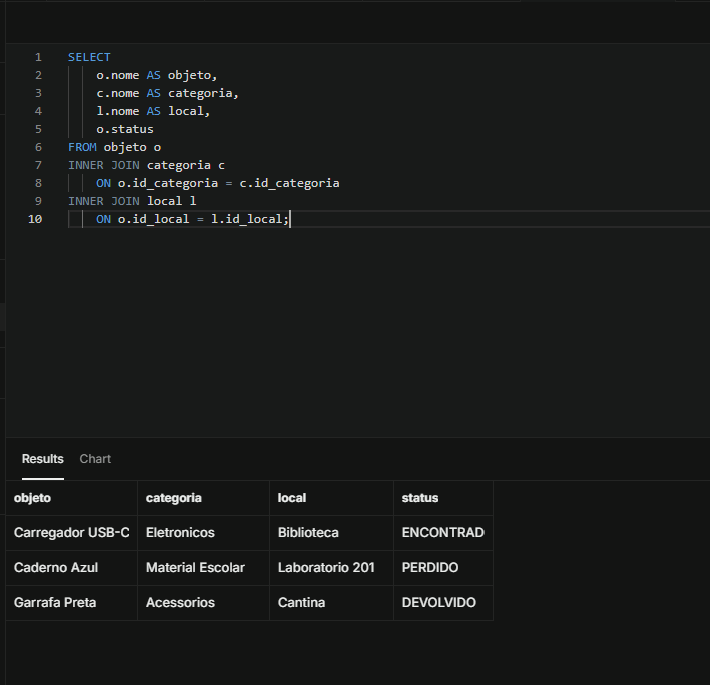
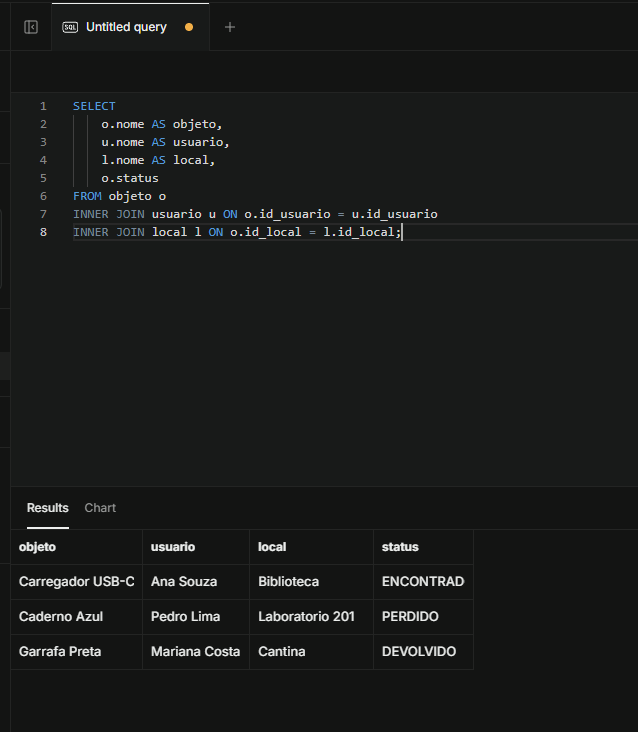
Atualiza documentacao e scripts conforme MER corrigido

diff --git a/docs/documentacao-tecnica.md b/docs/documentacao-tecnica.md
@@ -1,10 +1,9 @@
 # Projeto Integrador de Banco de Dados I
+
 ## APD1 — Modelagem Conceitual
 
-**Projeto:** Sistema Web de Achados e Perdidos para Ambiente Acadêmico
-
-**Curso:** Bacharelado em Engenharia da Computação
-
+**Projeto:** Sistema Web de Achados e Perdidos para Ambiente Acadêmico  
+**Curso:** Bacharelado em Engenharia da Computação  
 **Disciplina:** Banco de Dados I
 
 **Integrantes:**
@@ -13,239 +12,161 @@
 
 ### 1. Contextualização
 
-Em instituições de ensino, é comum que alunos, professores e funcionários percam ou encontrem objetos pessoais em salas de aula, laboratórios, bibliotecas e demais espaços.
+Em instituições de ensino, alunos, professores e funcionários podem perder ou encontrar objetos em salas de aula, laboratórios, bibliotecas e demais espaços. A divulgação informal dificulta localizar os responsáveis e acompanhar a devolução dos itens.
 
-A divulgação desses objetos geralmente ocorre de maneira informal, dificultando sua identificação e devolução.
-
-O Sistema Web de Achados e Perdidos tem como proposta centralizar essas informações, proporcionando maior organização e facilidade na consulta dos registros.
+O Sistema Web de Achados e Perdidos propõe centralizar os registros de objetos, usuários responsáveis pelos registros e locais de ocorrência.
 
 ### 2. Objetivo
 
-Desenvolver uma base de dados relacional para gerenciar objetos perdidos e encontrados no ambiente acadêmico.
-
-O sistema permitirá registrar informações sobre os objetos, seus responsáveis, categorias e locais de ocorrência.
-
-Posteriormente, a base de dados será integrada a uma aplicação web com funcionalidades CRUD e consultas.
+Estruturar uma base de dados relacional para organizar objetos perdidos e encontrados no ambiente acadêmico e, posteriormente, integrá-la a uma aplicação web com operações CRUD e consultas.
 
 ### 3. Requisitos funcionais
 
-- RF01 — Cadastrar usuários.
-- RF02 — Cadastrar categorias de objetos.
-- RF03 — Cadastrar locais da instituição.
-- RF04 — Cadastrar objetos perdidos ou encontrados.
-- RF05 — Consultar objetos cadastrados.
-- RF06 — Editar informações dos objetos.
-- RF07 — Excluir registros de objetos.
-- RF08 — Pesquisar objetos por nome, categoria, local e status.
-- RF09 — Atualizar o status dos objetos para perdido, encontrado ou devolvido.
+- **RF01:** Cadastrar usuários.
+- **RF02:** Cadastrar locais da instituição.
+- **RF03:** Cadastrar objetos perdidos ou encontrados, vinculando-os a um usuário e a um local.
+- **RF04:** Consultar os objetos cadastrados.
+- **RF05:** Editar os dados dos objetos.
+- **RF06:** Excluir registros de objetos.
+- **RF07:** Pesquisar objetos por nome, local ou status.
+- **RF08:** Alterar o status dos objetos entre PERDIDO, ENCONTRADO e DEVOLVIDO.
 
 ### 4. Regras de negócio
 
-- RN01 — Cada usuário possui um identificador único.
-- RN02 — Um usuário pode registrar vários objetos.
-- RN03 — Cada objeto deve estar associado a exatamente um usuário.
-- RN04 — Cada objeto pertence a uma única categoria.
-- RN05 — Uma categoria pode classificar vários objetos.
-- RN06 — Cada objeto deve estar associado a um local.
-- RN07 — Um local pode estar associado a vários objetos.
-- RN08 — Cada objeto possui um status que indica sua situação atual.
-- RN09 — O e-mail e a matrícula dos usuários, quando informada, devem ser únicos.
+- **RN01:** Cada usuário, local e objeto possui um identificador único.
+- **RN02:** Cada objeto possui um usuário responsável pelo registro.
+- **RN03:** Um usuário pode registrar vários objetos.
+- **RN04:** Cada objeto está associado a um local da instituição.
+- **RN05:** Um local pode estar associado a vários objetos.
+- **RN06:** Cada objeto possui um status: PERDIDO, ENCONTRADO ou DEVOLVIDO.
+- **RN07:** O e-mail do usuário deve ser único; a matrícula, quando informada, também deve ser única.
 
 ### 5. Modelo Entidade-Relacionamento (MER)
 
-O modelo conceitual foi desenvolvido utilizando o software brModelo.
+O modelo conceitual foi desenvolvido no brModelo e, após a revisão orientada pelo professor, contém três entidades:
 
-Foram definidas quatro entidades principais:
+- **USUARIO:** `id_usuario` (identificador), `nome`, `email`, `matricula`, `telefone`.
+- **LOCAL:** `id_local` (identificador), `nome`, `bloco`, `descricao`.
+- **OBJETO:** `id_objeto` (identificador), `nome`, `descricao`, `data_ocorrencia`, `status`.
 
-**USUARIO:** armazena informações dos responsáveis pelos registros.
-
-Atributos: id_usuario (identificador), nome, email, matricula e telefone.
-
-**OBJETO:** armazena as informações dos objetos perdidos ou encontrados.
-
-Atributos: id_objeto (identificador), nome, descricao, data_ocorrencia e status.
-
-**CATEGORIA:** representa a classificação dos objetos.
-
-Atributos: id_categoria (identificador), nome e descricao.
-
-**LOCAL:** representa os espaços físicos da instituição.
-
-Atributos: id_local (identificador), nome, bloco e descricao.
+![MER conceitual corrigido](APD1/MER_Achados_e_Perdidos.png)
 
 ### 6. Relacionamentos e cardinalidades
 
-**USUARIO — REGISTRA — OBJETO**
+- **USUARIO — REGISTRA — OBJETO:** o sistema associa o registro de cada objeto a um usuário.
+- **LOCAL — ACHADO — OBJETO:** o sistema associa cada objeto ao local da ocorrência.
 
-Um usuário pode registrar zero ou vários objetos. Cada objeto deve possuir exatamente um usuário responsável.
-
-Cardinalidade: 1:N.
-
-**CATEGORIA — CLASSIFICA — OBJETO**
-
-Uma categoria pode classificar zero ou vários objetos. Cada objeto deve pertencer a exatamente uma categoria.
-
-Cardinalidade: 1:N.
-
-**LOCAL — OCORRE — OBJETO**
-
-Um local pode estar associado a zero ou vários registros de objetos. Cada objeto deve estar associado a exatamente um local.
-
-Cardinalidade: 1:N.
+As cardinalidades e sua representação gráfica devem ser conferidas no arquivo editável do MER aprovado em sala. Na implementação relacional adotada, cada objeto referencia um usuário e um local, e um usuário ou local pode estar associado a vários objetos.
 
 ### 7. Justificativa da modelagem
 
-A entidade OBJETO foi definida como elemento central do sistema, pois representa as ocorrências que serão registradas.
+A entidade OBJETO representa os registros centrais da solução. USUARIO e LOCAL foram modeladas separadamente para evitar a repetição de informações de responsáveis e espaços físicos em cada objeto. A entidade CATEGORIA e seu relacionamento foram retirados conforme a revisão do modelo solicitada pelo professor.
 
-As entidades USUARIO, CATEGORIA e LOCAL foram separadas para organizar as informações e evitar a repetição desnecessária de dados.
+### 8. Tecnologias
 
-Essa estrutura permite que um mesmo usuário registre diferentes objetos, que vários objetos compartilhem uma categoria e que um mesmo local esteja associado a diversas ocorrências.
+- **brModelo:** modelagem conceitual e lógica.
+- **PostgreSQL / Supabase:** implementação e consultas ao banco de dados.
+- **Visual Studio Code:** edição dos arquivos do projeto.
+- **Git e GitHub:** versionamento dos artefatos.
+- **HTML, CSS e JavaScript:** tecnologias previstas para o MVP web.
 
-A utilização de identificadores únicos facilita a identificação dos registros e prepara a base para o desenvolvimento do modelo lógico e a aplicação das regras de normalização nas próximas etapas.
-
-### 8. Tecnologias previstas
-
-- brModelo: elaboração dos modelos conceitual e lógico.
-- PostgreSQL/Supabase: implementação futura do banco de dados relacional.
-- HTML, CSS e JavaScript: desenvolvimento previsto da interface web.
-- Git e GitHub: versionamento dos arquivos e documentação.
-
-
+---
 
 ## APD2 — Modelo Lógico e Normalização
 
 ### 1. Modelo lógico relacional
 
-O modelo lógico foi elaborado utilizando o software brModelo, a partir do Modelo Entidade-Relacionamento desenvolvido na APD1.
+O modelo lógico foi elaborado a partir do MER corrigido. Ele contém três tabelas relacionadas:
 
-O banco de dados é composto por quatro tabelas: USUARIO, CATEGORIA, LOCAL e OBJETO.
+- **USUARIO**(`id_usuario` PK, `nome`, `email`, `matricula`, `telefone`)
+- **LOCAL**(`id_local` PK, `nome`, `bloco`, `descricao`)
+- **OBJETO**(`id_objeto` PK, `nome`, `descricao`, `data_ocorrencia`, `status`, `id_usuario` FK, `id_local` FK)
 
-A tabela OBJETO representa a entidade central do sistema e contém três chaves estrangeiras responsáveis por estabelecer os relacionamentos com as demais tabelas.
+As chaves estrangeiras de OBJETO referenciam `USUARIO(id_usuario)` e `LOCAL(id_local)`. Os nomes de campos no SQL do brModelo podem diferir dos nomes simplificados adotados nos scripts PostgreSQL.
 
-**Esquema relacional:**
-
-- USUARIO(id_usuario PK, nome, email, matricula, telefone)
-- CATEGORIA(id_categoria PK, nome, descricao)
-- LOCAL(id_local PK, nome, bloco, descricao)
-- OBJETO(id_objeto PK, nome, descricao, data_ocorrencia, status, id_usuario FK, id_categoria FK, id_local FK)
+![Modelo lógico corrigido](APD2/Lógico_BD.png)
 
 ### 2. Primeira Forma Normal (1FN)
 
-A Primeira Forma Normal determina que cada atributo deve armazenar valores atômicos, evitando grupos repetitivos ou múltiplos valores em um mesmo campo.
-
-No modelo proposto, os atributos foram definidos para armazenar valores individuais. Por exemplo, cada objeto possui um único nome, uma data de ocorrência e um status.
-
-Dessa forma, considerando o preenchimento atômico dos campos, o modelo atende à 1FN.
+Cada atributo foi definido para armazenar um valor individual, sem listas ou grupos repetidos. Considerando o preenchimento atômico dos campos, o modelo atende à 1FN.
 
 ### 3. Segunda Forma Normal (2FN)
 
-A Segunda Forma Normal exige que o modelo esteja na 1FN e que os atributos não-chave não dependam apenas de parte de uma chave candidata composta.
-
-As quatro tabelas possuem chaves primárias simples, formadas por um único identificador.
-
-Considerando também que não foram definidas outras chaves candidatas compostas com dependências parciais, o modelo atende à 2FN.
+As tabelas possuem chaves primárias simples. Considerando as dependências funcionais definidas para o projeto, não há dependências parciais de chaves compostas; portanto, o modelo atende à 2FN.
 
 ### 4. Terceira Forma Normal (3FN)
 
-A Terceira Forma Normal busca eliminar dependências transitivas indevidas entre atributos.
-
-No modelo desenvolvido, os dados dos usuários, categorias e locais foram organizados em tabelas específicas, evitando sua repetição na tabela OBJETO.
-
-Assim, as informações descritivas dessas entidades permanecem relacionadas aos seus respectivos identificadores.
-
-Considerando as dependências funcionais previstas nas regras de negócio, não foram identificadas dependências transitivas que violem a 3FN.
+As informações dos usuários e locais são mantidas em tabelas próprias. A tabela OBJETO guarda apenas suas informações específicas e as referências aos respectivos registros, evitando repetir nome, e-mail, bloco e descrição do local em cada ocorrência. Sob as regras de negócio estabelecidas, não foram identificadas dependências transitivas que violem a 3FN.
 
 ### 5. Justificativa da normalização
 
-A organização da base de dados busca reduzir a redundância, melhorar a consistência das informações e evitar anomalias de inserção, atualização e exclusão.
-
-A separação das entidades também facilita a manutenção do banco e a implementação de consultas SQL utilizando relacionamentos entre tabelas.
+A separação entre USUARIO, LOCAL e OBJETO reduz redundâncias e anomalias de atualização, inserção e exclusão, além de facilitar consultas relacionais e a manutenção dos dados.
 
 ### 6. Conclusão da APD2
 
-A transformação do MER para o modelo lógico permitiu definir as tabelas, chaves primárias, chaves estrangeiras e relacionamentos necessários ao sistema.
+O modelo lógico traduz as entidades e os relacionamentos em tabelas, chaves primárias e estrangeiras. A análise das dependências funcionais previstas indica atendimento à 1FN, 2FN e 3FN.
 
-A análise de normalização indica que a estrutura proposta atende à 1FN, 2FN e 3FN, considerando as regras de negócio estabelecidas.
-
-O modelo servirá como base para a implementação física em um SGBD relacional durante a APD3.
+---
 
 ## APD3 — Implementação Física do Banco de Dados
 
 ### 1. Objetivo
 
-A terceira etapa do Projeto Integrador teve como objetivo implementar fisicamente a base de dados relacional desenvolvida nas etapas anteriores, utilizando um Sistema Gerenciador de Banco de Dados (SGBD).
+Implementar no PostgreSQL a estrutura relacional definida nas etapas anteriores, inserir registros fictícios e demonstrar a recuperação de informações com consultas SQL.
 
 ### 2. Tecnologias utilizadas
 
-Foi utilizado o PostgreSQL, disponibilizado pela plataforma Supabase, para criação e gerenciamento das tabelas e execução dos comandos SQL.
-
-O Visual Studio Code foi utilizado para organizar os scripts e a documentação, enquanto o GitHub foi utilizado para versionamento dos arquivos do projeto.
+O banco foi implementado em **PostgreSQL**, disponibilizado pelo **Supabase**. O Visual Studio Code foi utilizado na organização dos scripts e o GitHub no versionamento dos artefatos.
 
 ### 3. Implementação das tabelas
 
-Foram criadas quatro tabelas relacionadas:
+Foram implementadas as tabelas **usuario**, **local** e **objeto**. Cada tabela possui chave primária; `objeto` contém chaves estrangeiras para `usuario` e `local`. Foram previstas restrições como `NOT NULL`, `UNIQUE` e `CHECK` para preservar a integridade dos registros.
 
-- USUARIO: armazena os dados dos usuários responsáveis pelos registros.
-- CATEGORIA: armazena as classificações dos objetos.
-- LOCAL: armazena os locais de ocorrência.
-- OBJETO: armazena os objetos perdidos ou encontrados.
-
-As tabelas possuem chaves primárias e relacionamentos definidos por chaves estrangeiras, garantindo a integridade referencial.
-
-Também foram utilizadas restrições como NOT NULL, UNIQUE e CHECK para melhorar a consistência dos dados.
-
-O script de criação está disponível em `database/01_create_tables.sql`.
+Script: [`database/01_create_tables.sql`](../database/01_create_tables.sql).
 
 ### 4. Inserção de dados
 
-Foram inseridos registros fictícios nas quatro tabelas para permitir a execução de testes e consultas.
+Foram utilizados dados fictícios para testar os relacionamentos, incluindo usuários, locais e objetos nos estados PERDIDO, ENCONTRADO e DEVOLVIDO.
 
-Os dados incluem usuários, categorias, locais e objetos com diferentes situações, como PERDIDO, ENCONTRADO e DEVOLVIDO.
-
-O script está disponível em `database/02_insert_data.sql`.
+Script: [`database/02_insert_data.sql`](../database/02_insert_data.sql). O script de inserção deve ser utilizado na configuração de uma base nova, não repetido indiscriminadamente na base já populada.
 
 ### 5. Consultas SQL
 
-Foram elaboradas consultas para demonstrar a manipulação e recuperação de informações armazenadas no banco.
+As consultas demonstram:
 
-Entre os recursos utilizados estão:
+- `SELECT`, `WHERE` e `ORDER BY` para listagem, filtros e ordenação;
+- `INNER JOIN` e `LEFT JOIN` para relacionar objetos, usuários e locais;
+- `GROUP BY` e `COUNT` para contagem de objetos por local ou status;
+- subconsultas com `IN` e `EXISTS` para recuperação condicionada de registros.
 
-- SELECT e WHERE para consultas e filtros;
-- ORDER BY para ordenação;
-- INNER JOIN para relacionar registros;
-- LEFT JOIN para incluir registros sem correspondência;
-- GROUP BY e COUNT para agrupamento e contagem;
-- Subconsultas com IN, EXISTS e comparação de valores.
-
-As consultas estão organizadas em `database/03_queries.sql`.
+Script: [`database/03_queries.sql`](../database/03_queries.sql).
 
 ### 6. Evidências de execução
 
-Foram registradas capturas de tela dos resultados das consultas no SQL Editor do Supabase.
+As capturas abaixo devem corresponder à execução das consultas **atualizadas**, sem referências à tabela CATEGORIA.
 
-**Consulta 5 — Relacionamento entre objetos, categorias e locais**
+**Consulta 5 — Objetos, usuários e locais**
 
 ![Consulta 5](APD3/evidencias/consulta5.png)
 
-**Consulta 6 — Quantidade de objetos por categoria**
+**Consulta 6 — Quantidade de objetos por local**
 
 ![Consulta 6](APD3/evidencias/consulta6.png)
 
-**Consulta 8 — Subconsulta para objetos da Biblioteca**
+**Consulta 8 — Subconsulta de objetos da Biblioteca**
 
 ![Consulta 8](APD3/evidencias/consulta8.png)
 
 ### 7. Resultados
 
-A execução das consultas permitiu verificar a recuperação de informações de diferentes tabelas, demonstrando o funcionamento dos relacionamentos estabelecidos no modelo lógico.
-
-Os resultados também demonstraram a possibilidade de realizar filtros, agrupamentos e subconsultas utilizando SQL.
+As consultas realizadas demonstraram a recuperação de objetos vinculados a usuários e locais. Após a revisão do modelo, a estrutura do banco foi adaptada para retirar a entidade CATEGORIA e sua referência na tabela OBJETO, preservando os registros de teste das demais tabelas.
 
 ### 8. Conclusão
 
-A implementação física do banco de dados permitiu transformar o modelo lógico em uma estrutura funcional no PostgreSQL.
+A implementação física disponibiliza uma base relacional para consultas e operações CRUD. A próxima etapa será desenvolver o MVP web integrado ao PostgreSQL/Supabase, com atenção às políticas de acesso do banco.
 
-As tabelas, os relacionamentos e as consultas desenvolvidas constituem a base para a próxima etapa do projeto, que será a integração com uma aplicação web contendo funcionalidades CRUD.
+---
 
+## APD4 — Próxima etapa
 
-**APD4:** desenvolvimento de um MVP web integrado ao banco de dados, com funcionalidades CRUD e consultas.
+Implementar a aplicação web com funcionalidades de cadastro, consulta, atualização e exclusão, integrada às tabelas do projeto. Esta etapa ainda não está documentada como concluída.
